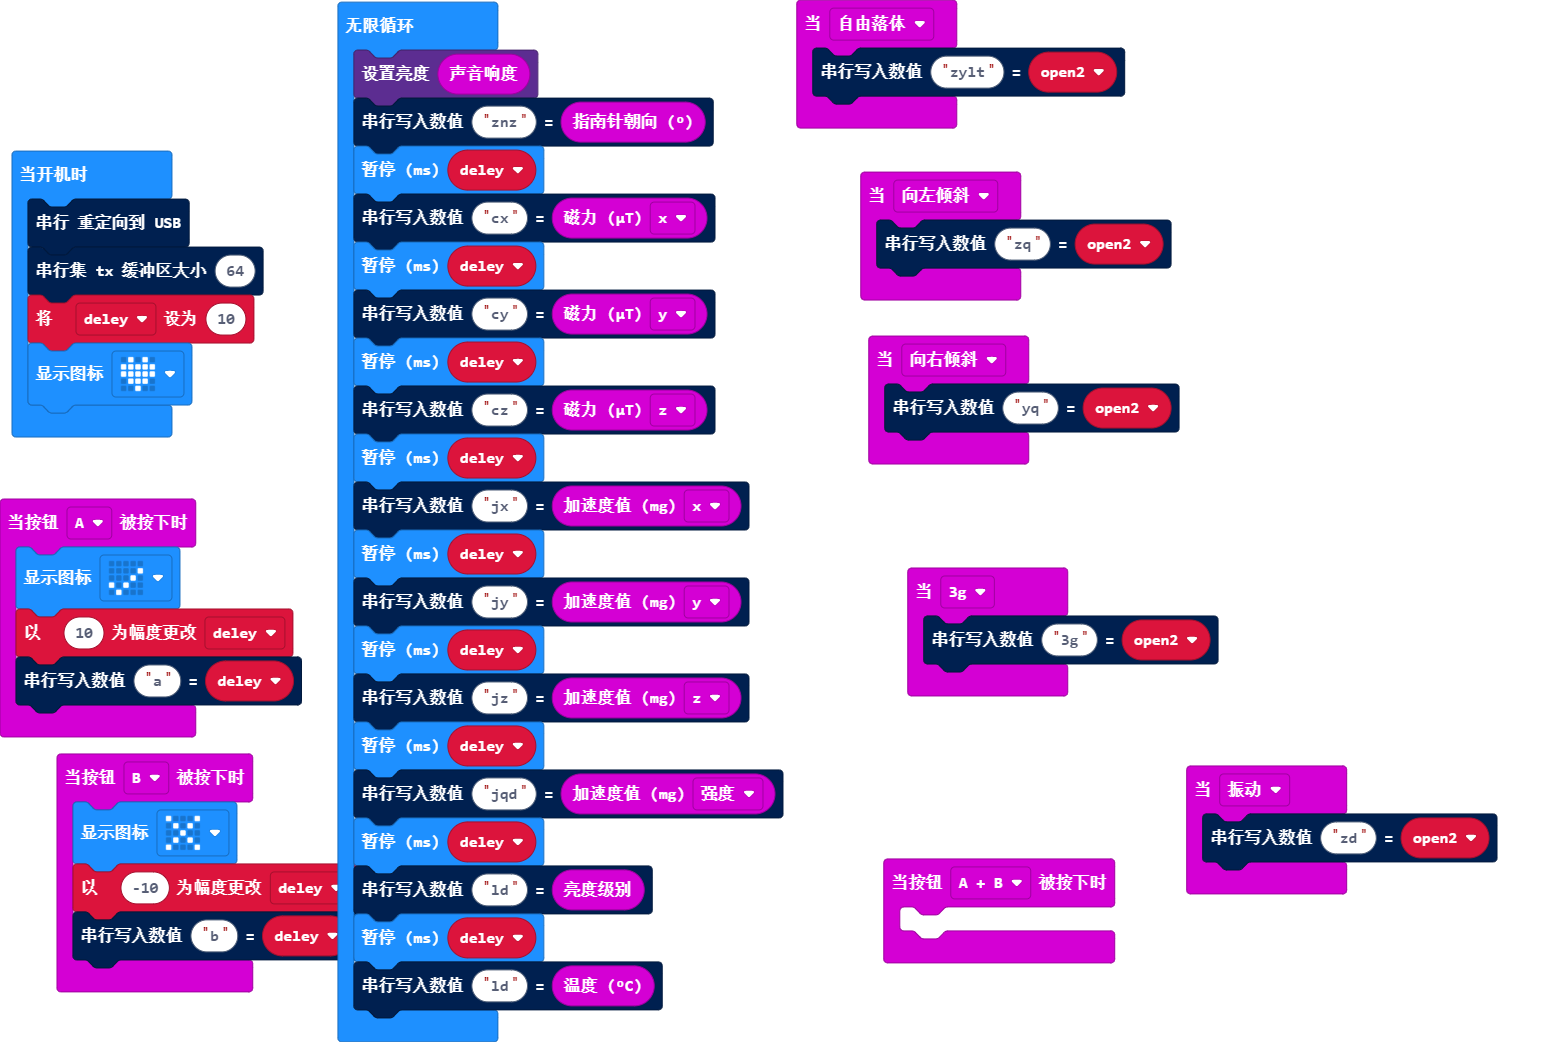
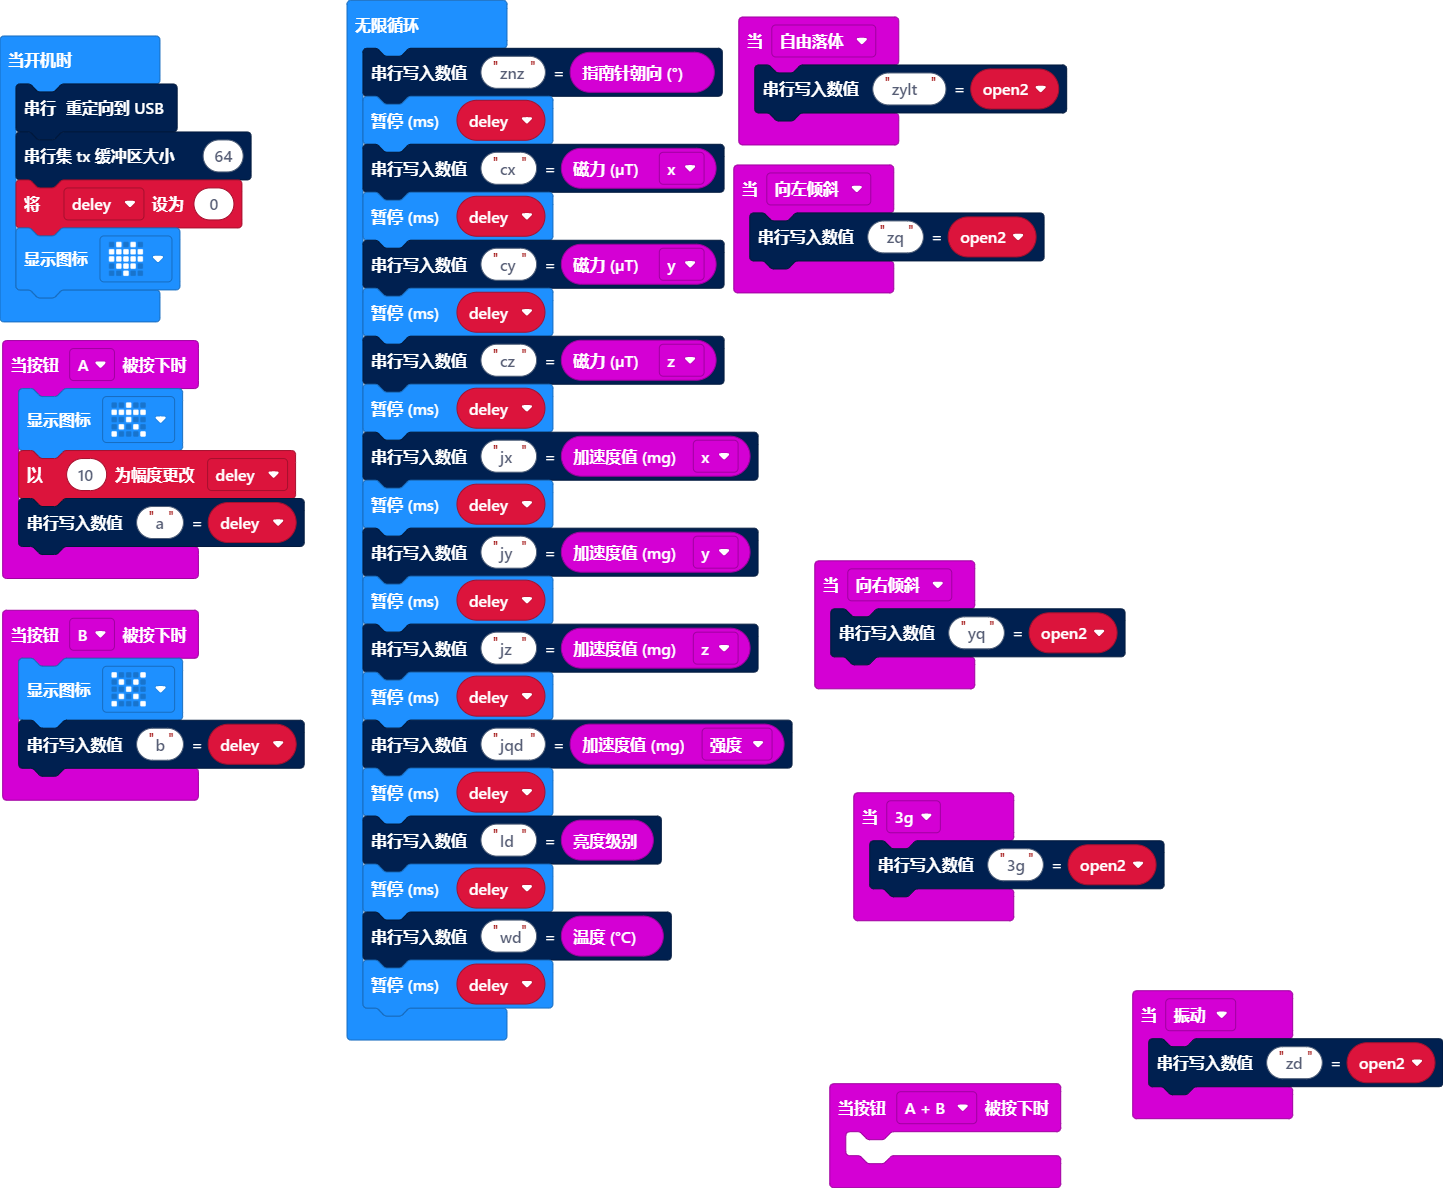
更新 pxt.json, main.blocks, main.ts

diff --git a/main.ts b/main.ts
@@ -2,7 +2,7 @@ input.onGesture(Gesture.TiltLeft, function () {
     serial.writeValue("zq", open2)
 })
 input.onButtonPressed(Button.A, function () {
-    basic.showIcon(IconNames.Yes)
+    basic.showIcon(IconNames.StickFigure)
     deley += 10
     serial.writeValue("a", deley)
 })
@@ -17,7 +17,6 @@ input.onGesture(Gesture.FreeFall, function () {
 })
 input.onButtonPressed(Button.B, function () {
     basic.showIcon(IconNames.No)
-    deley += -10
     serial.writeValue("b", deley)
 })
 input.onGesture(Gesture.ThreeG, function () {
@@ -30,10 +29,9 @@ let open2 = 0
 let deley = 0
 serial.redirectToUSB()
 serial.setTxBufferSize(64)
-deley = 10
+deley = 0
 basic.showIcon(IconNames.Heart)
 basic.forever(function () {
-    led.setBrightness(input.soundLevel())
     serial.writeValue("znz", input.compassHeading())
     basic.pause(deley)
     serial.writeValue("cx", input.magneticForce(Dimension.X))
@@ -52,5 +50,6 @@ basic.forever(function () {
     basic.pause(deley)
     serial.writeValue("ld", input.lightLevel())
     basic.pause(deley)
-    serial.writeValue("ld", input.temperature())
+    serial.writeValue("wd", input.temperature())
+    basic.pause(deley)
 })
